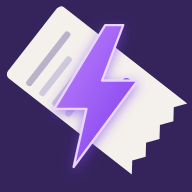
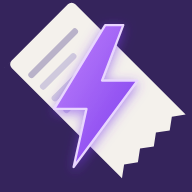
アイコンの領収書の傾きを-45°で確定
Claude-Session: https://claude.ai/code/session_01M7TmCoUV6As5ur3WRm9Z6P

diff --git a/docs/index.html b/docs/index.html
@@ -592,7 +592,7 @@ const DRAFT_IMAGE_ID = "__draft__";
 const CROP_DRAFT_IMAGE_ID = "__crop_draft__"; // トリミング前の選択写真（リロード復元用）
 const DEFAULT_MODEL = "gpt-5.4";
 // UIに関わる変更をpushするたびに更新する（設定タブに表示。キャッシュで旧版が出ていないかの確認用）
-const APP_VERSION = "2026-07-08.22 アイコンの傾き-52°";
+const APP_VERSION = "2026-07-08.23 アイコン確定（傾き-45°）";
 
 // OCRプロンプト: ExpenseVBA(modReceiptOCR.bas)と同一文言。抽出品質を揃えるため変更時は両方を同期すること
 const PROMPT = [